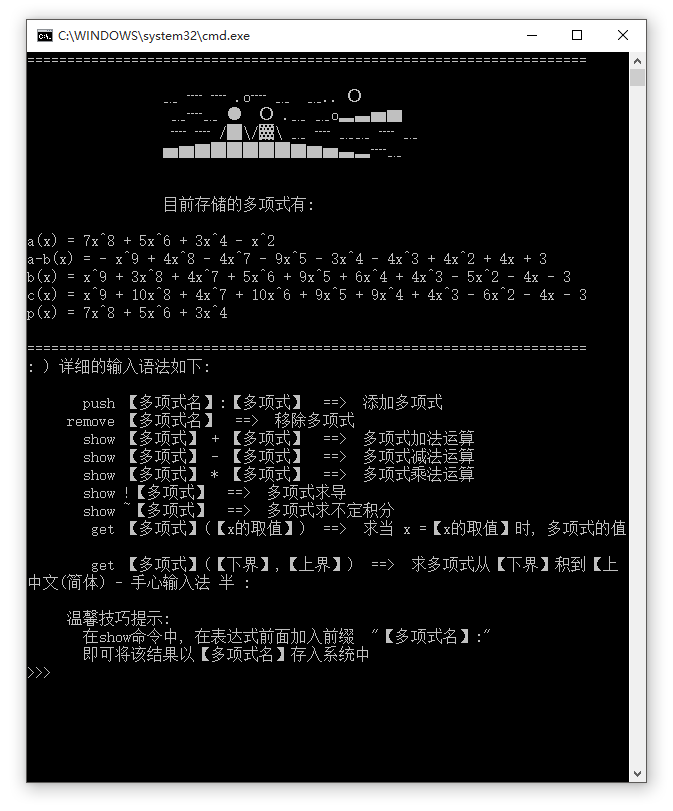
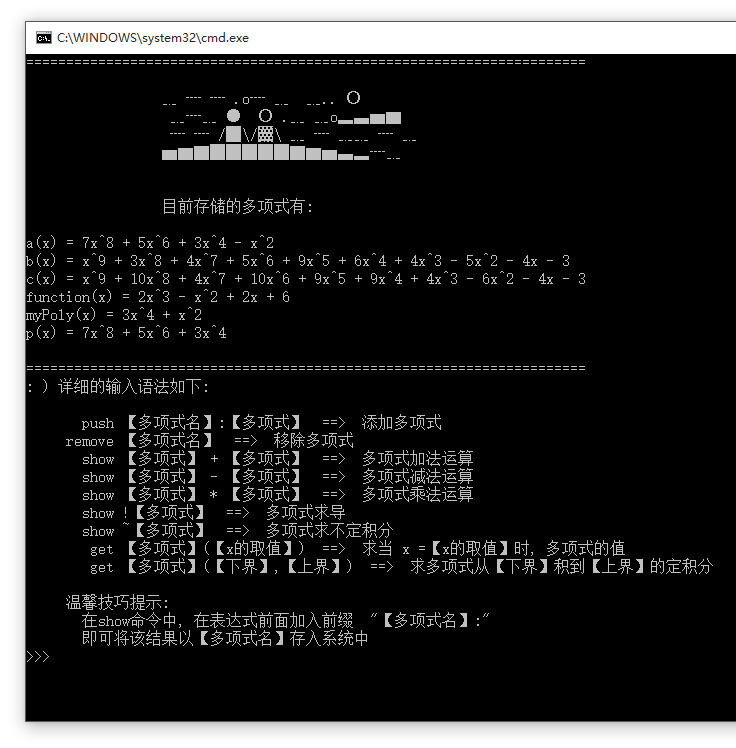
完成实验报告

Changed region(s): [[0.0312, 0.0, 1.0, 0.984], [0.2184, 0.123, 0.5929, 0.2152]]

diff --git a/Polynomial.h b/Polynomial.h
@@ -46,6 +46,7 @@ public:
 	friend Polynomial operator-(Polynomial& lhs, Polynomial& rhs);
 	friend Polynomial operator*(Monomial& lhs, Polynomial& rhs);
 	friend Polynomial operator*(Polynomial& lhs, Polynomial& rhs);
+
 private:
 	std::vector<Monomial> __polynomial;
 	void sortByPowerDescend();

diff --git a/PolyDictionary.h b/PolyDictionary.h
@@ -1,6 +1,7 @@
 #pragma once
 #include "Polynomial.h"
 #include <map>
+
 class PolyDictionary
 {
 	/*

diff --git a/ReadMe.md b/ReadMe.md
@@ -1,34 +1,41 @@
 
 # 实验报告
+
+- 教务二班
+- Zhiyu He
+- 15331097
+
+[这个多项式项目的Github](https://github.com/HeskeyBaozi/PolyCaculator)
 ![土叔](/images/ts14.jpg)
+
 ## 零. 成品
 
 #### 友好的界面
 ![基本界面](/images/基本界面.png)
 
 #### 求导运算
-命令:
+敲入命令:
 ```
 show n2': !n2
 ```
 ![求导运算](/images/求导运算.png)
 
 #### 定积分运算
-命令:
+敲入命令:
 ```
 get n2(0,5)
 ```
 ![定积分运算](/images/定积分运算.png)
 
 #### help功能
-命令:
+敲入命令:
 ```
 help
 ```
 ![clear](/images/help.png)
 
 #### clear功能
-命令:
+敲入命令:
 ```
 clear
 ```
@@ -79,33 +86,54 @@ clear
 
 ## 五、实验结果
 
-设计有代表性的输入数据，并分析测试结果以及针对测试中发现的问题所进行的
+#### 添加多项式
 
-修正与改进。
+##### 敲入`push`命令
+![push1](./images/run_push.png)
 
+##### 回车, 显示结果
+![push2](./images/run_push_result.png)
 
+#### 多项式加法
 
-### 说明：
+##### 敲入`show`命令
+```
+show a+b
+```
+命令表示计算a+b并显示结果, (a,b各代表一个多项式)
+![show1](./images/run_ab.png)
+
+##### 回车, 显示结果
+![show2](./images/run_ab_restult.png)
+
+#### 多项式乘法
+
+##### 敲入`show`命令
+```
+show aAndp:a*p
+```
+命令表示计算a*p并显示结果, 并将这个结果得到的多项式以名字`aAndp`储存起来, (a,p各代表一个多项式)
+![show1](./images/show_aAndP.png)
+
+##### 回车, 显示结果
+![show2](./images/show_aAndP_result.png)
+
+#### 多项式定积分运算
+
+##### 敲入`get`命令
+```
+get function(0,10)
+```
+命令表示计算`function`这个多项式从0积分到10的定积分
+![show1](./images/show_aAndP.png)
+
+##### 回车, 显示结果
+![show2](./images/show_aAndP_result.png)
 
 
 ## 六、设计心得
-进行总结，描述所获得的经验和心得体会等。
 
+获取的最大的新的就是: **抽象**
+> 软件开发中遇到的所有问题,都可以通过增加一层抽象而得以解决
 
-
-
-
-
-
-
-
- 注： 提示信息
-1. 可发挥想象力，提高系统的交互体验，可用性和可靠性。
-2. 请独立完成，但允许和鼓励相互讨论后自己写程序。由于题目具有开放性，很容易从程序看出是否抄袭。若发现抄袭，将导致抄袭双方或多方大副扣分或直接零分。
-
-#程序测试
-1. 请自行测试类的功能。
-2. 界面交互时，请检测用户输入的正确性，保证程序的健壮性。（在用户做出操作后最好打印出提示语句。）
-3. 在实验报告中分析测试意图和测试结果。如果通过测试发现程序错误，也分析错误原因、改正方法等，并在实验报告中体现。
-
-
+其中标准算法库中`std::sort()`作为高阶函数可以使用`lambda`表达式也给我进行了函数式编程的启蒙
